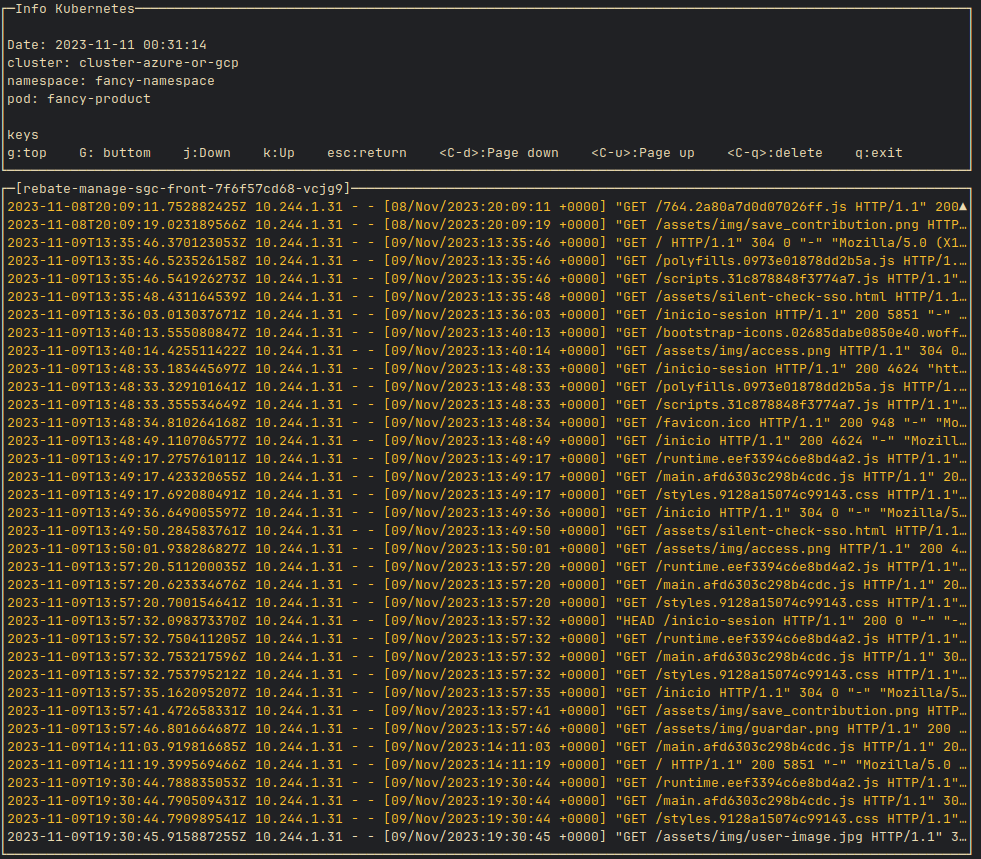
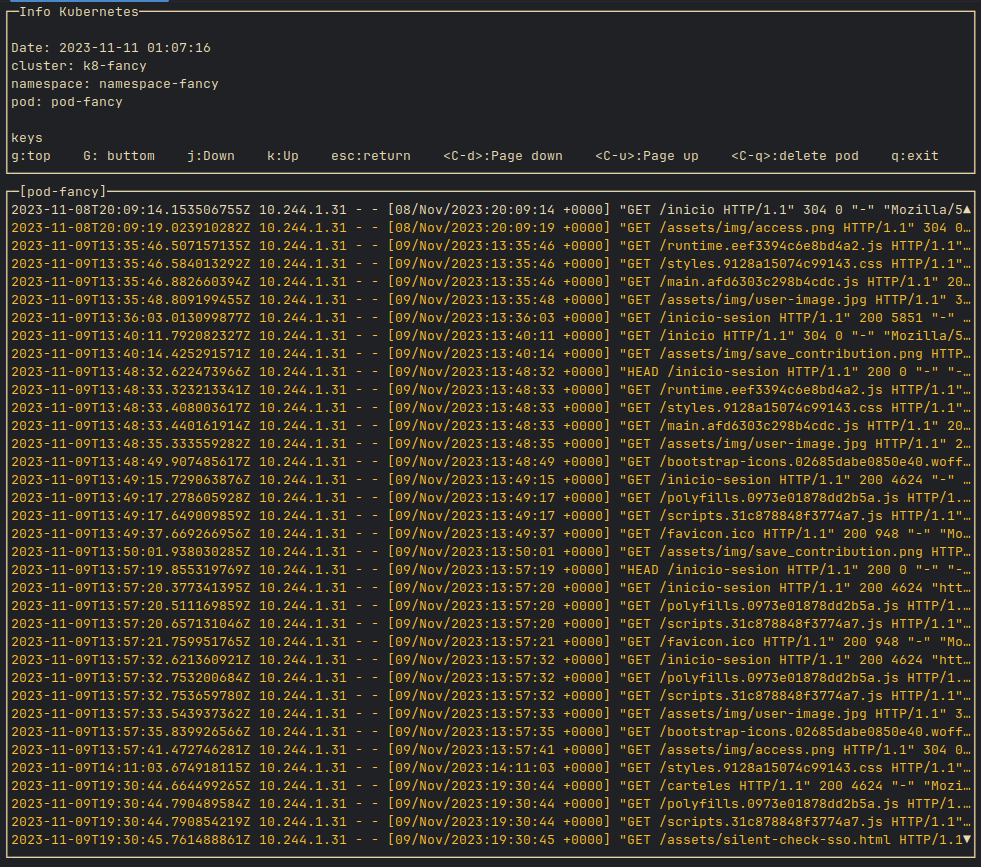
fix: adjusted documentation

diff --git a/kui/pods.go b/kui/pods.go
@@ -153,6 +153,7 @@ func ShowLogPod(client *kubernetes.Clientset, cluster string, namespace string, 
 	}
 
 	list := widgets.NewList()
+	// list.Title = "[pod-fancy]"
 	list.Title = "[" + pod + "]"
 	list.Rows = last
 	list.TextStyle = ui.NewStyle(ui.ColorYellow)
@@ -163,6 +164,7 @@ func ShowLogPod(client *kubernetes.Clientset, cluster string, namespace string, 
 	}
 	//
 	info := InfoK(cluster, namespace, pod)
+	//info := InfoK("k8-fancy", "namespace-fancy", "pod-fancy")
 	RenderList(list, info)
 	previousKey := ""
 	uiEvents := ui.PollEvents()

diff --git a/README.md b/README.md
@@ -1,6 +1,6 @@
 # TermK
 
-Easy show log pods using kubeconf over multiples cluster
+Easy show log pods using kubeconf over multiples cluster k8
 
 ![show_logs_one_pod.png](images%2Fshow_logs_one_pod.png)
 

diff --git a/CHANGELOG.md b/CHANGELOG.md
@@ -1,6 +1,6 @@
 # Change Log
 
-## [v0.2.1-alpha] - yyyy-mm-dd
+## [v0.2.1-alpha] - 2023-11-11
 
 Change order ui list and info cluster selected
 
